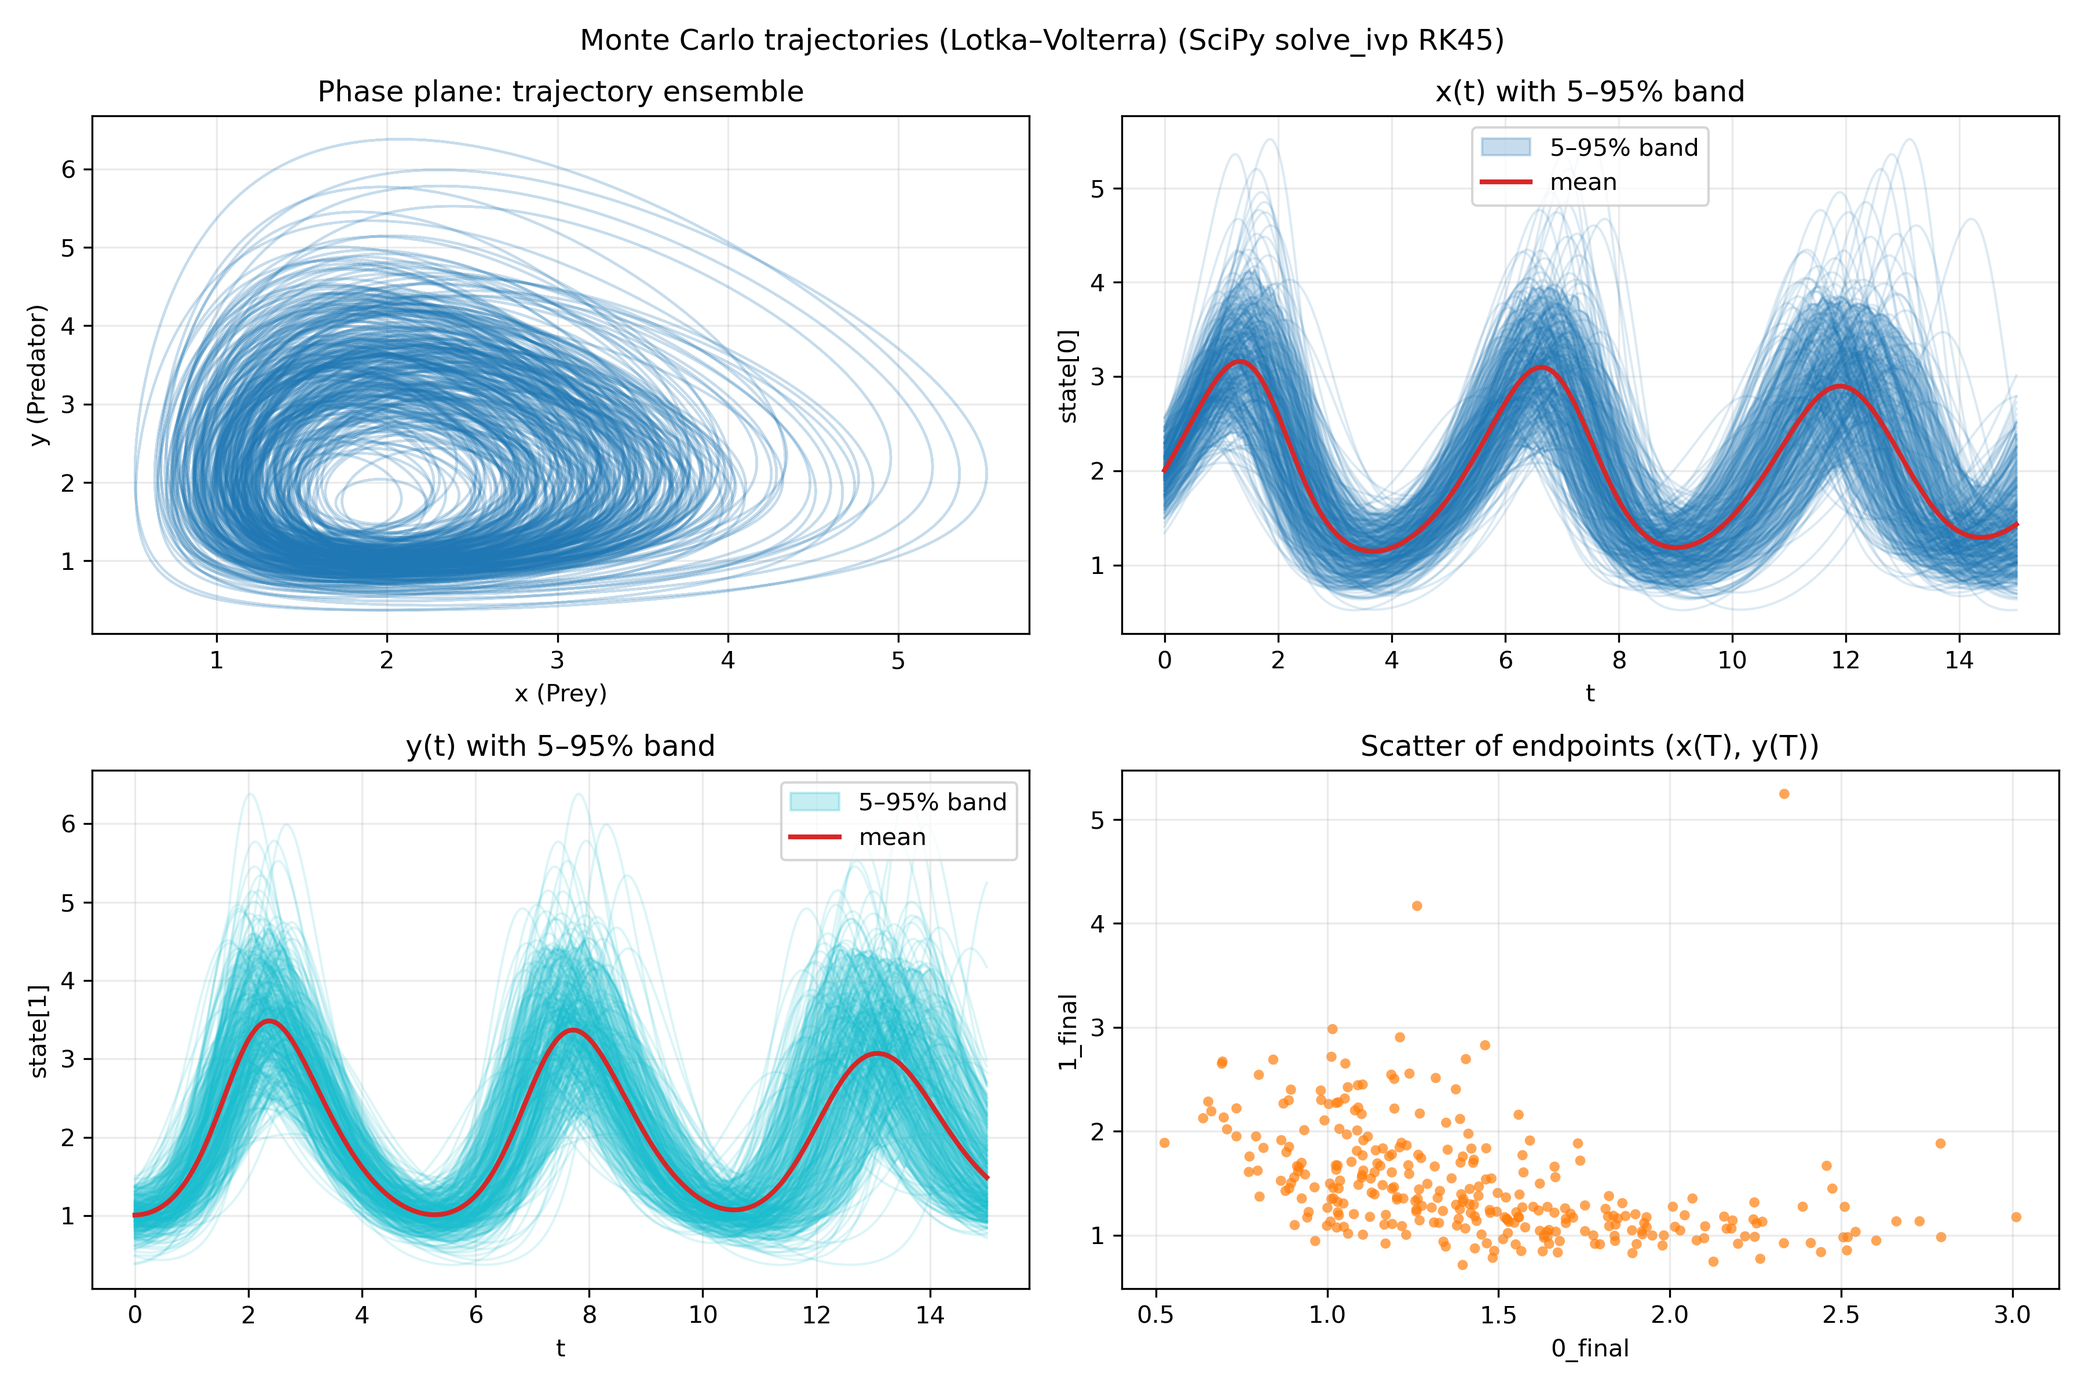
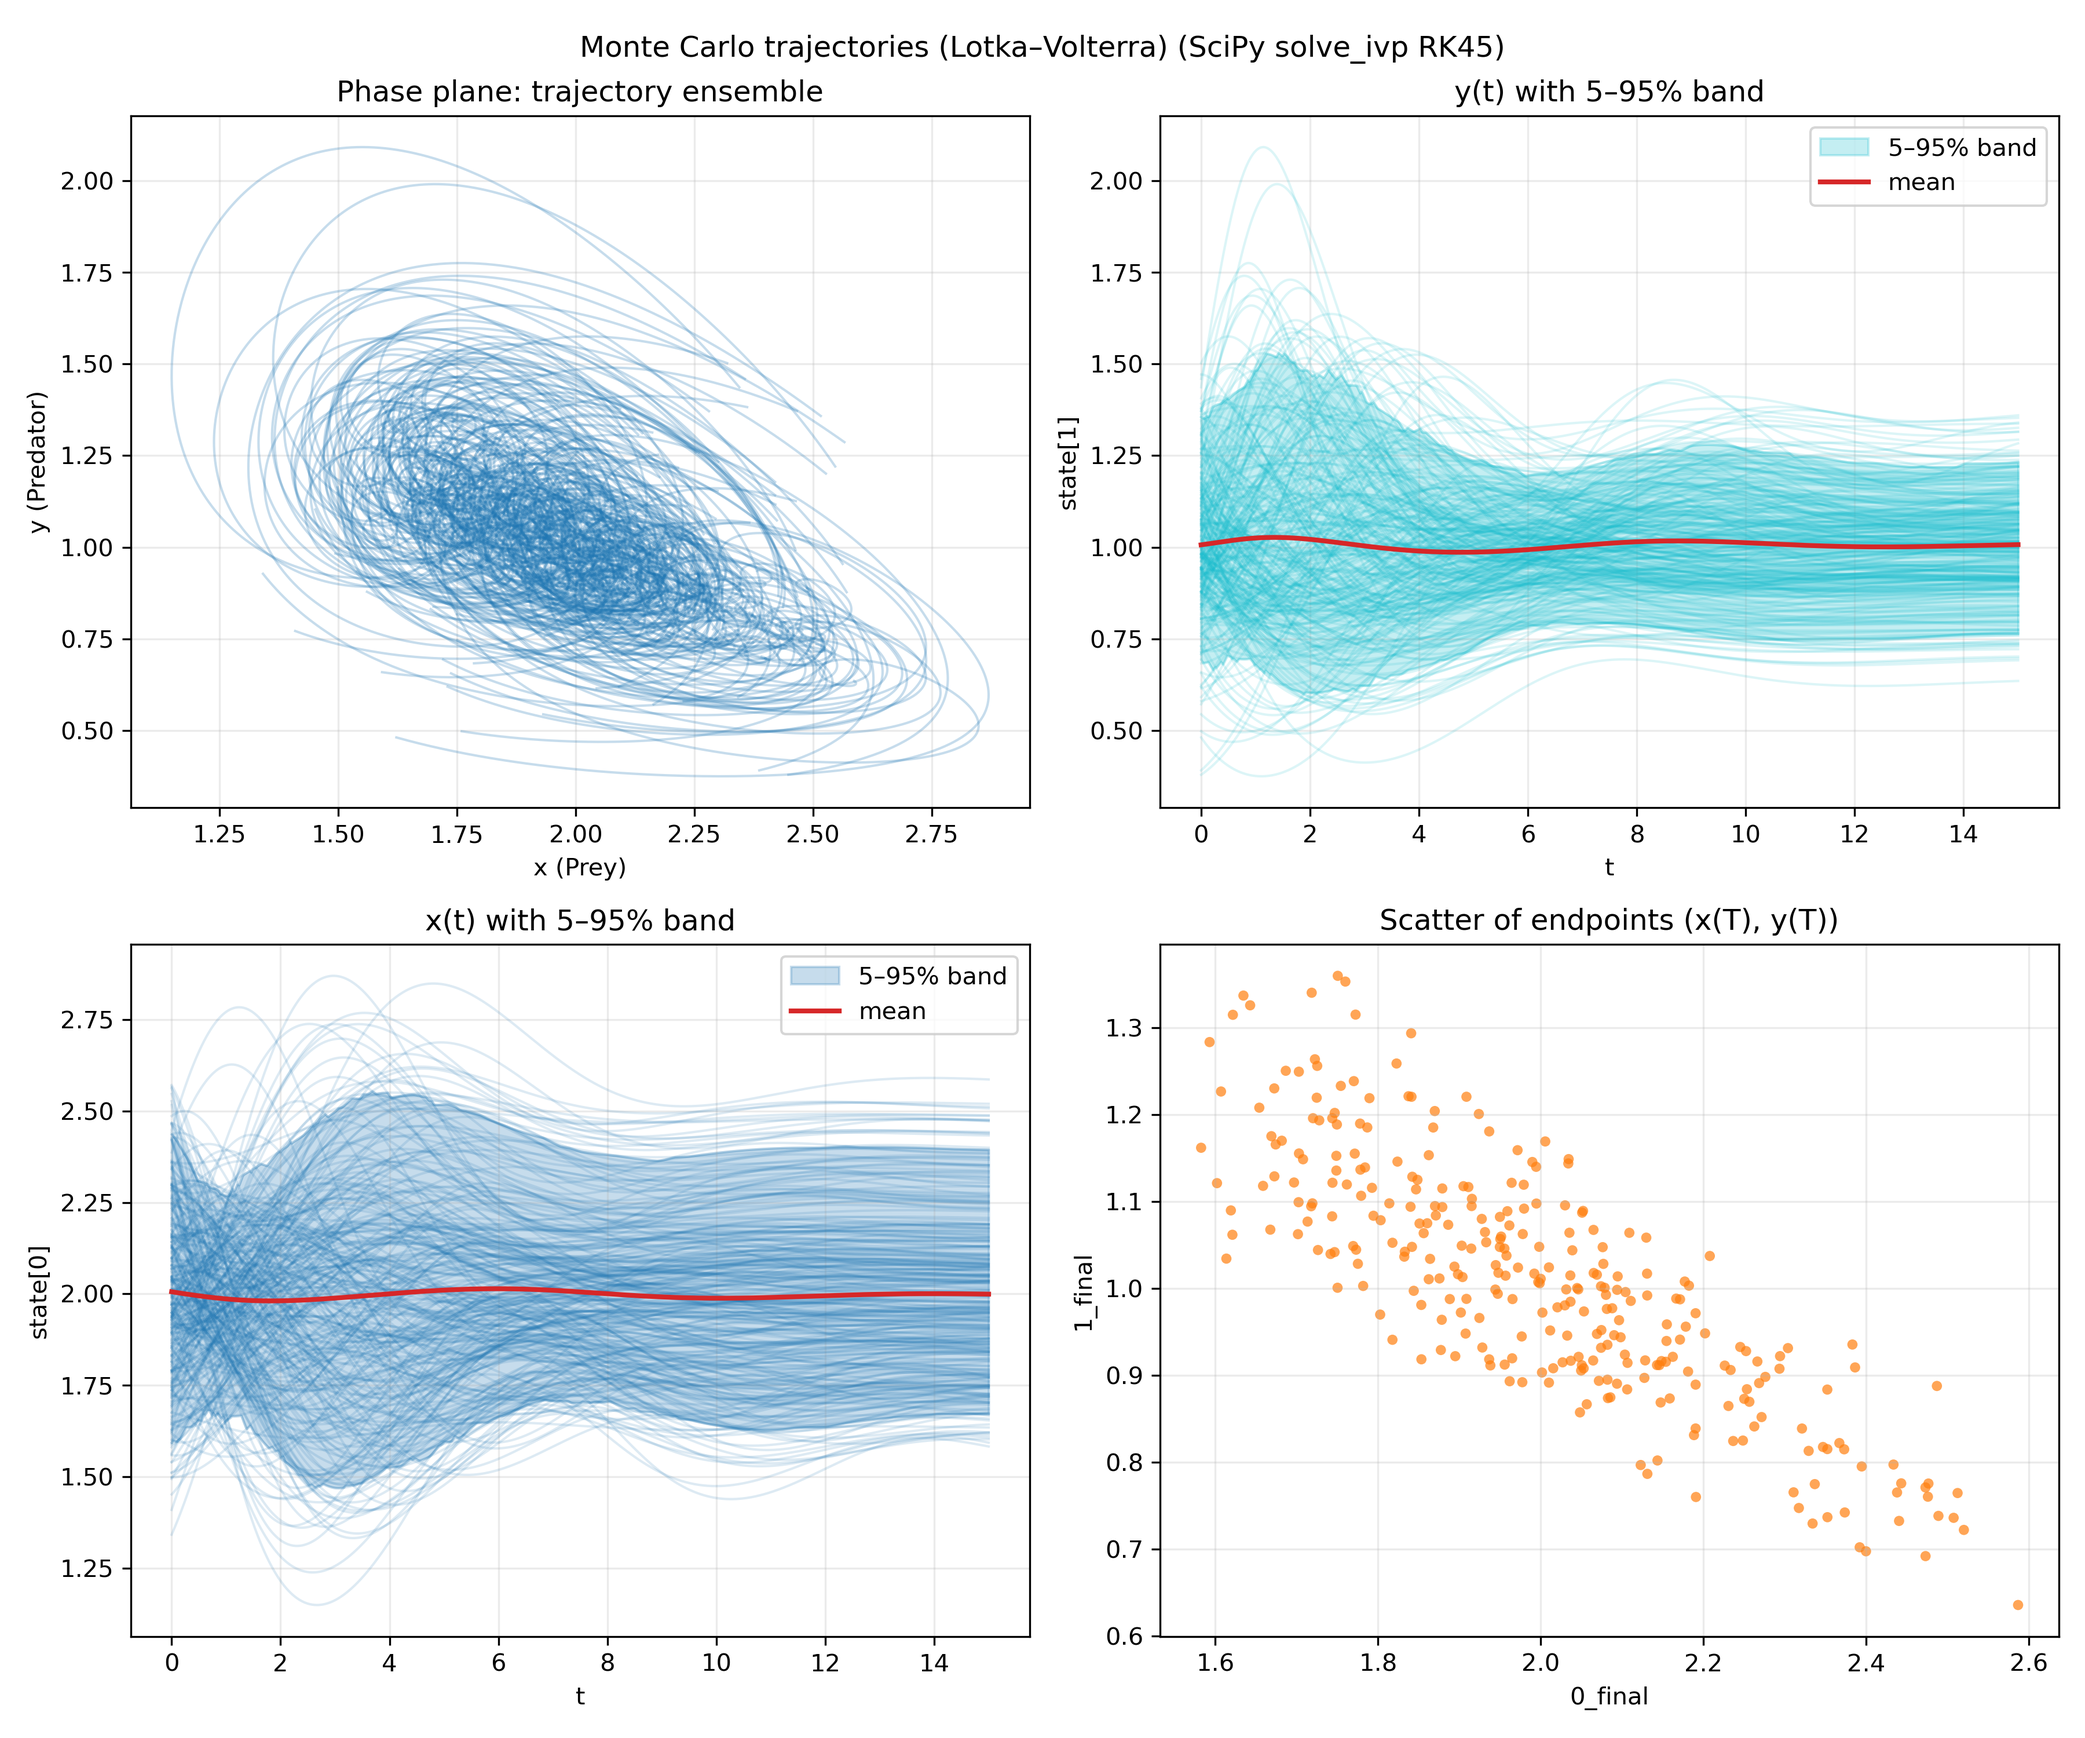
other model

diff --git a/monte_carlo/mote_carlo_Lotka–Volterra.py b/monte_carlo/mote_carlo_Lotka–Volterra.py
@@ -29,6 +29,14 @@ def lotka_volterra_rhs(t: float, y: np.ndarray, p: Dict[str, float]) -> np.ndarr
     return np.array([dx, dz], dtype=float)
 
 
+def lv_logistic_rhs(t, y, p):
+    x, z = y
+    alpha, beta, gamma, delta, K = p["alpha"], p["beta"], p["gamma"], p["delta"], p["K"]
+    dx = alpha * x * (1 - x / K) - beta * x * z
+    dz = delta * x * z - gamma * z
+    return np.array([dx, dz], float)
+
+
 @dataclass
 class ModelSpec:
     rhs: Callable[[float, np.ndarray, Dict[str, float]], np.ndarray]
@@ -209,8 +217,21 @@ if __name__ == "__main__":
         default_y0=np.array([2.0, 1.0], dtype=float),
     )
 
+    LV_LOGISTIC = ModelSpec(
+        rhs=lv_logistic_rhs,
+        state_names=("Prey x", "Predator y"),
+        default_params={
+            "alpha": 1.0,
+            "beta": 0.5,
+            "gamma": 1.5,
+            "delta": 0.75,
+            "K": 4.0,
+        },
+        default_y0=np.array([2.0, 1.0], float),
+    )
+
     # --------- 設定（必要に応じて変更） ---------
-    model = LV_MODEL
+    model = LV_LOGISTIC
     t_span = (0.0, 15.0)
     dt_out = 0.02  # 出力間隔（プロット解像度）
     N = 300  # サンプル本数（重いときは 100 前後に）
@@ -252,7 +273,7 @@ if __name__ == "__main__":
     traj = out["traj"]  # (N, nt, ny)
 
     # --------- 可視化 ---------
-    fig = plt.figure(figsize=(12, 8))
+    fig = plt.figure(figsize=(12, 10))
 
     # (1) 相平面（x vs y）スパゲティ
     ax1 = fig.add_subplot(2, 2, 1)
@@ -265,7 +286,7 @@ if __name__ == "__main__":
     ax1.grid(True, alpha=0.25)
 
     # (2) x(t) の信頼帯＋平均
-    ax2 = fig.add_subplot(2, 2, 2)
+    ax2 = fig.add_subplot(2, 2, 3)
     plot_timeseries_with_band(
         ax2,
         t,
@@ -278,7 +299,7 @@ if __name__ == "__main__":
     )
 
     # (3) y(t) の信頼帯＋平均
-    ax3 = fig.add_subplot(2, 2, 3)
+    ax3 = fig.add_subplot(2, 2, 2)
     plot_timeseries_with_band(
         ax3,
         t,
